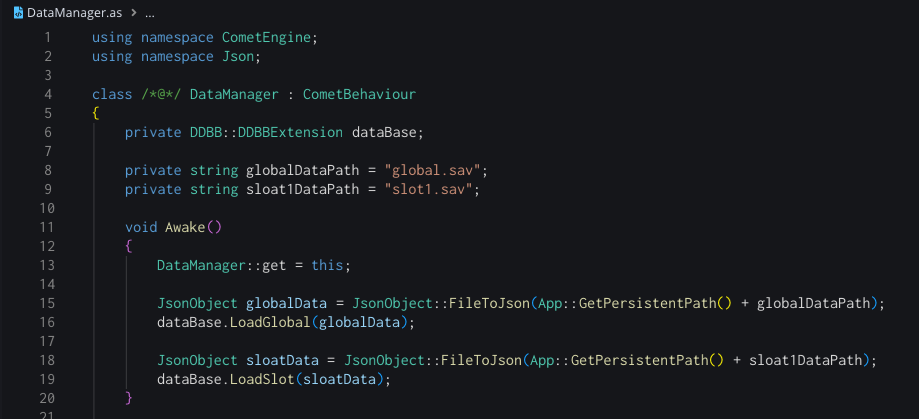
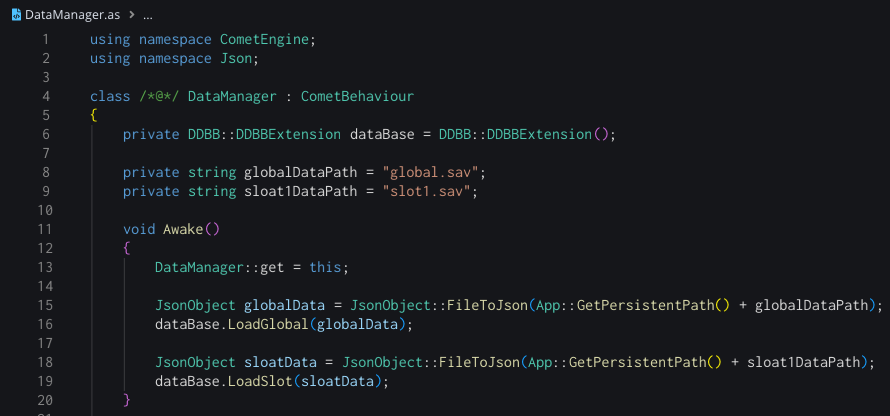
fixes

diff --git a/Packages/database/CHANGELOG.md b/Packages/database/CHANGELOG.md
@@ -2,6 +2,10 @@
 
 All notable changes to this package are documented in this file. The format follows [Keep a Changelog](https://keepachangelog.com).
 
+## [1.0.1]
+### Fixed
+- Corrected readme.
+
 ## [1.0.0]
 ### Added
 - Initial version.
